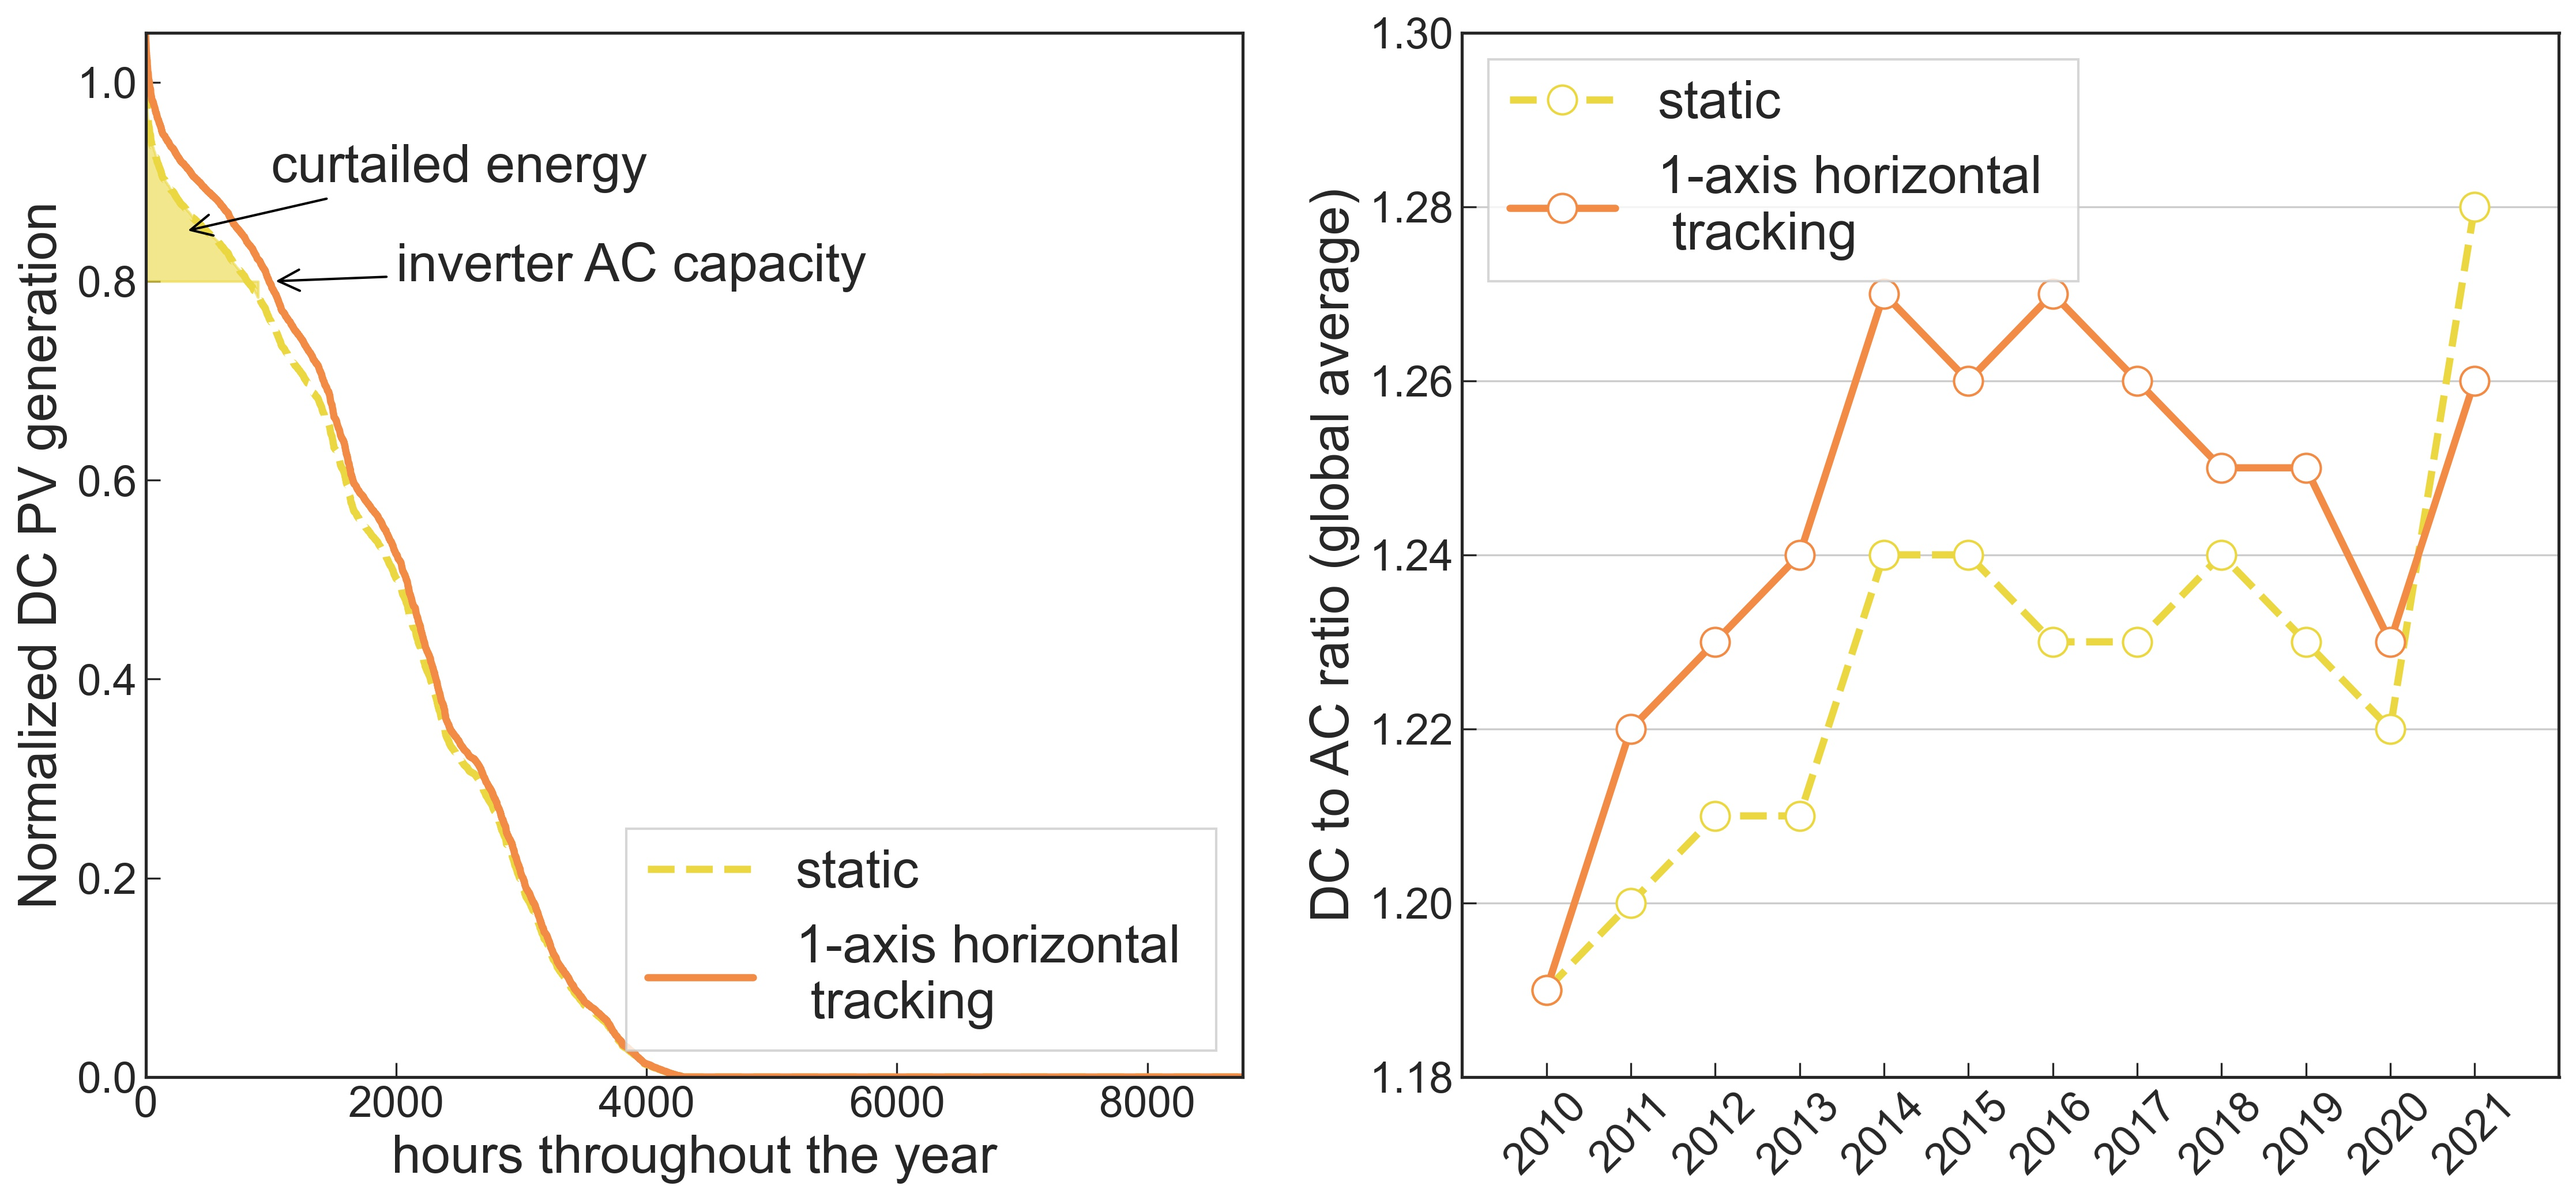
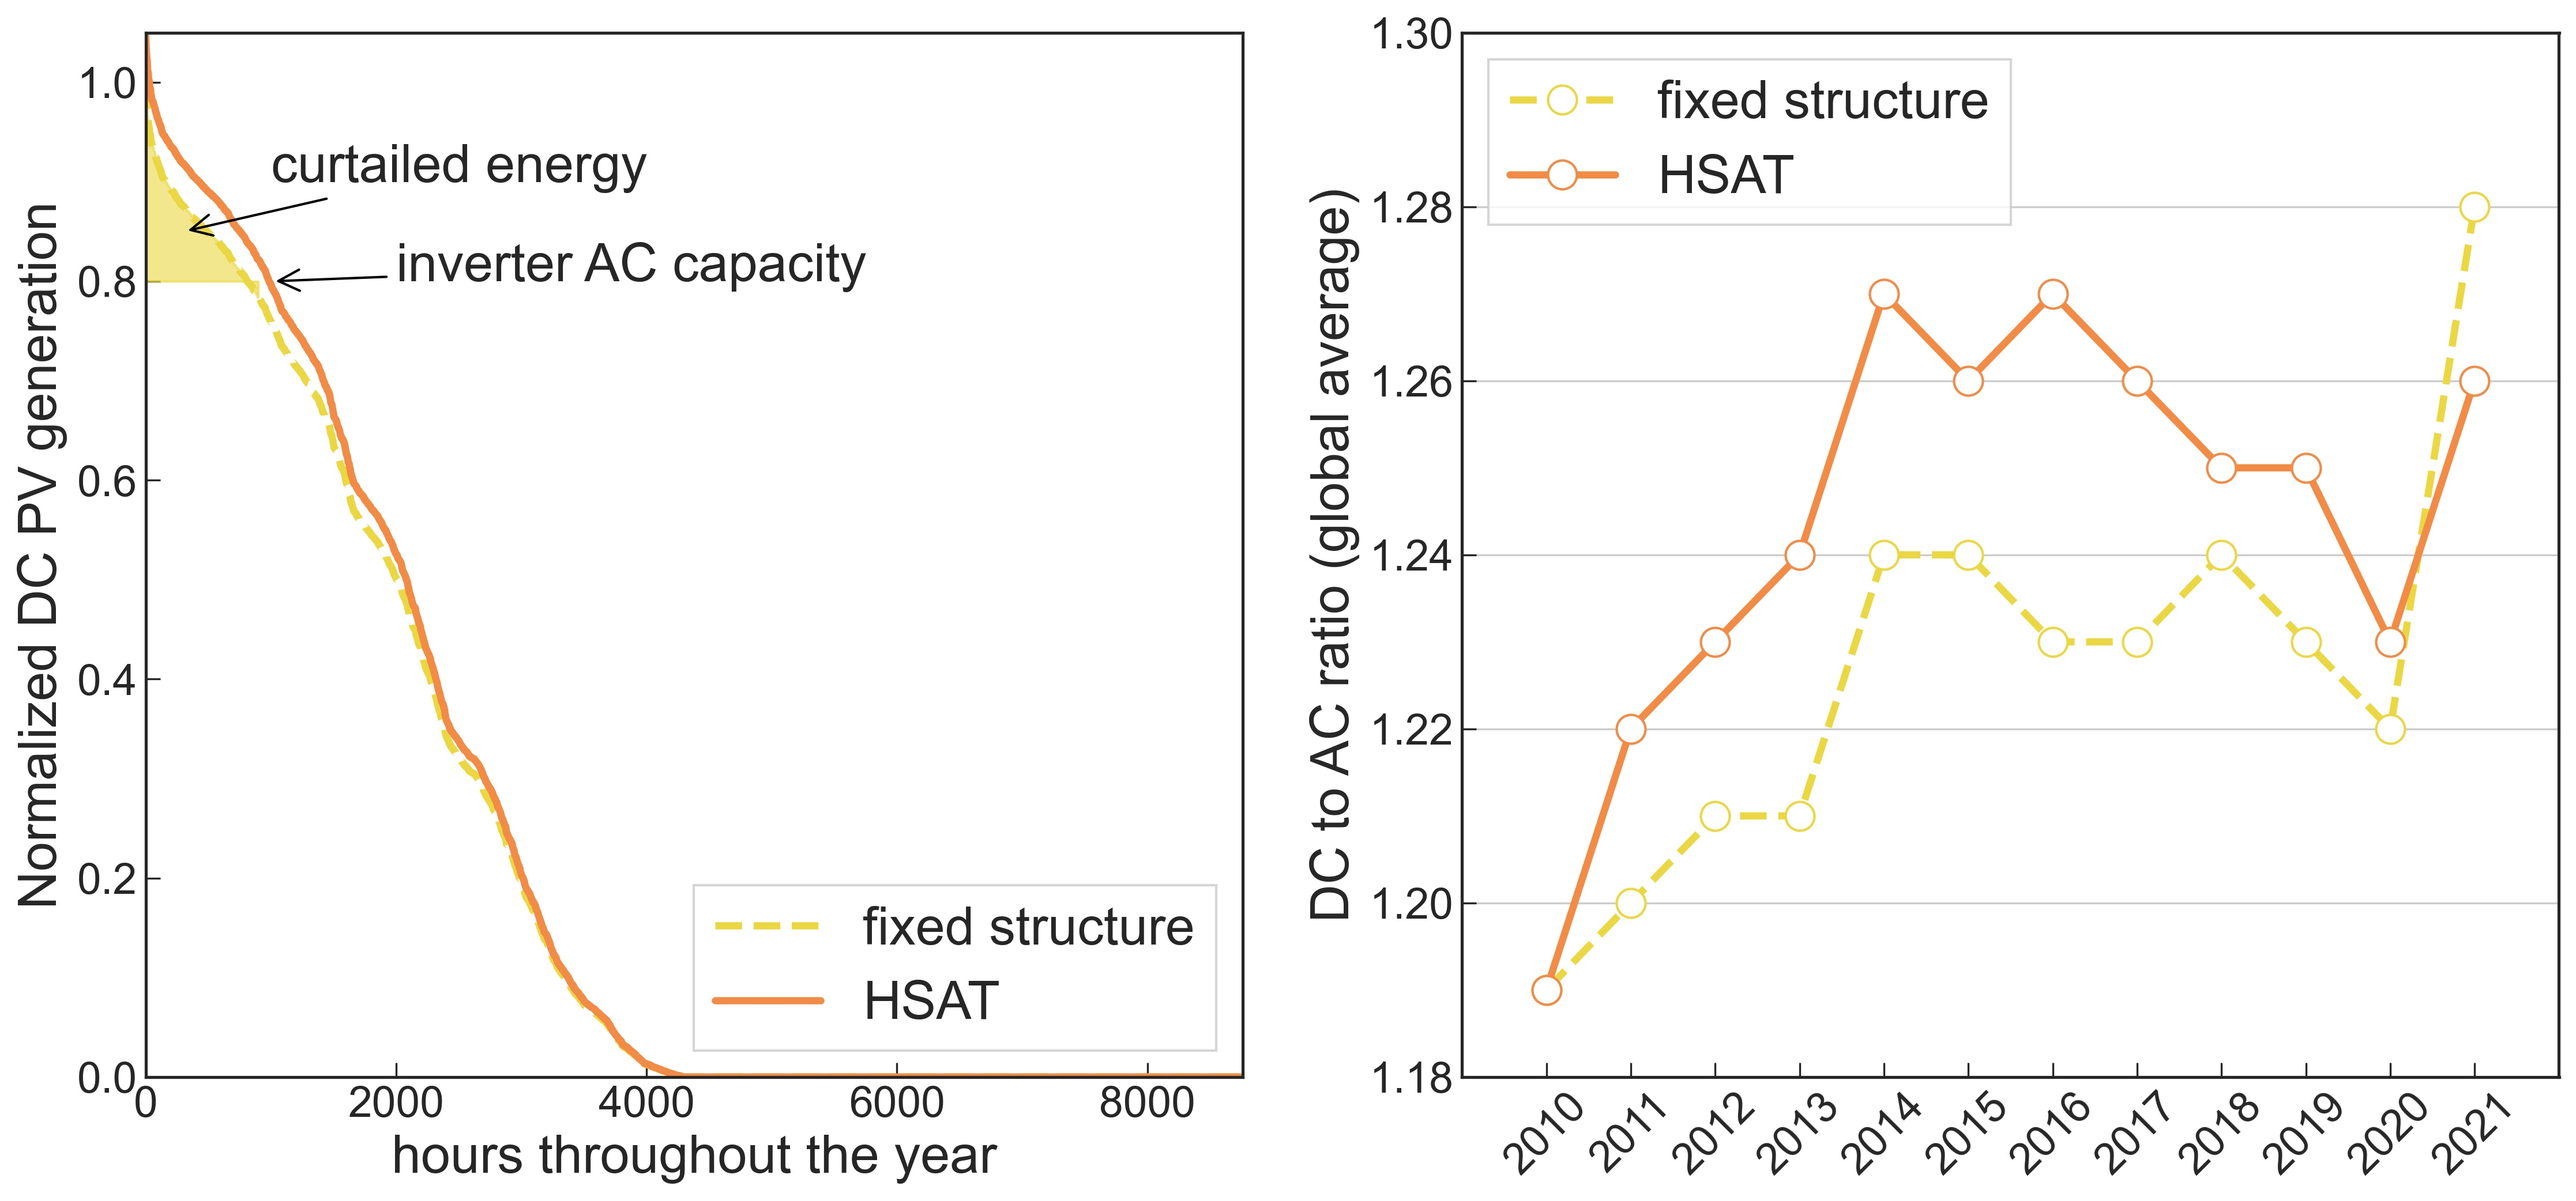
small improvements last figures chapter 13

Changed region(s): [[0.2489, 0.6862, 0.4668, 0.8733], [0.5912, 0.1248, 0.809, 0.2183], [0.6223, 0.0624, 0.7779, 0.0936]]

diff --git a/Figures/Chapter_13/static_tracking_demand.py b/Figures/Chapter_13/static_tracking_demand.py
@@ -35,11 +35,33 @@ demand =[23811, 22272, 21340, 20727, 20638, 20977, 22707, 24672, 26679, 28774,
          30035, 30701, 31639, 32359, 31973, 30850, 30635, 30530, 30359, 30083, 
          29758, 29394, 28878, 26876, ]
 
-ax1.set_ylabel('normalized PV generation and normalized electricity demand ')
-ax1.plot(hours, static/np.max(static), color=colors['color4'], linewidth=3,
-          linestyle='--', label='static')
-ax1.plot(hours, tracking/np.max(static), color=colors['color5'], linewidth=3,
-         label='1-axis horizontal \n tracking')
+ax1.set_ylabel('normalized PV generation and \n normalized electricity demand ',
+               fontsize=22)
+
+ax1.plot(hours, tracking/np.max(static), 
+         color=colors['color5'], 
+         linewidth=4,
+         label='HSAT')
+
+ax1.fill_between(hours, tracking/np.max(static), 
+                 color=colors['color5'], 
+                 alpha=0.6,
+                 linewidth=4,
+                 label=None)
+
+ax1.plot(hours, static/np.max(static), 
+         color=colors['color4'], 
+         linewidth=4,
+         linestyle='--', 
+         label='fixed structure')
+
+ax1.fill_between(hours, static/np.max(static), 
+         color=colors['color4'], 
+         alpha=0.6,
+         linewidth=4,
+         linestyle='--', 
+         label=None)
+
 ax1.plot(hours, demand/np.max(demand), color='black', linewidth=4,
          label='electricity demand')
 

diff --git a/Figures/Chapter_13/DC_AC_ratio.py b/Figures/Chapter_13/DC_AC_ratio.py
@@ -33,9 +33,9 @@ ax0 = plt.subplot(gs1[0,0])
 ax0.set_ylabel('Normalized DC PV generation', fontsize=22)
 
 ax0.plot(static_s, color=colors['color4'], linewidth=3,
-          linestyle='--', label='static')
+          linestyle='--', label='fixed structure')
 ax0.plot(tracking_s, color=colors['color5'], linewidth=3,
-          label='1-axis horizontal \n tracking')
+          label='HSAT')
 ax0.set_xlim(0,8760)
 ax0.set_ylim(0,1.05)
 ax0.set_xlabel('hours throughout the year', fontsize=22,)
@@ -63,10 +63,10 @@ tracking = [1.19, 1.22, 1.23, 1.24, 1.27, 1.26, 1.27, 1.26, 1.25, 1.25, 1.23, 1.
 
 ax1.set_ylabel('DC to AC ratio (global average)', fontsize=22)
 ax1.plot(years, static, color=colors['color4'], linewidth=3,
-          linestyle='--', label='static',
+          linestyle='--', label='fixed structure',
           marker='o', markerfacecolor='white',markersize=12)
 ax1.plot(years, tracking, color=colors['color5'], linewidth=3,
-         label='1-axis horizontal \n tracking',
+         label='HSAT',
          marker='o', markerfacecolor='white',markersize=12)
 
 ax1.set_xlim(2009,2022)
